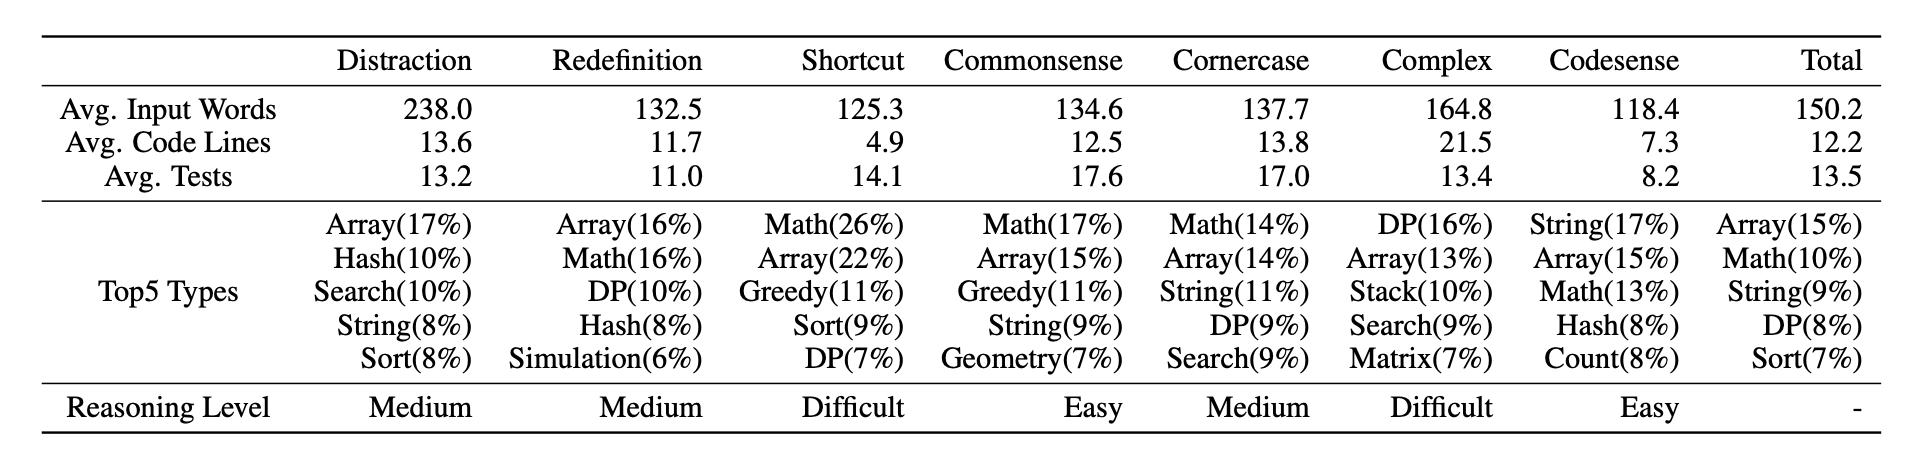
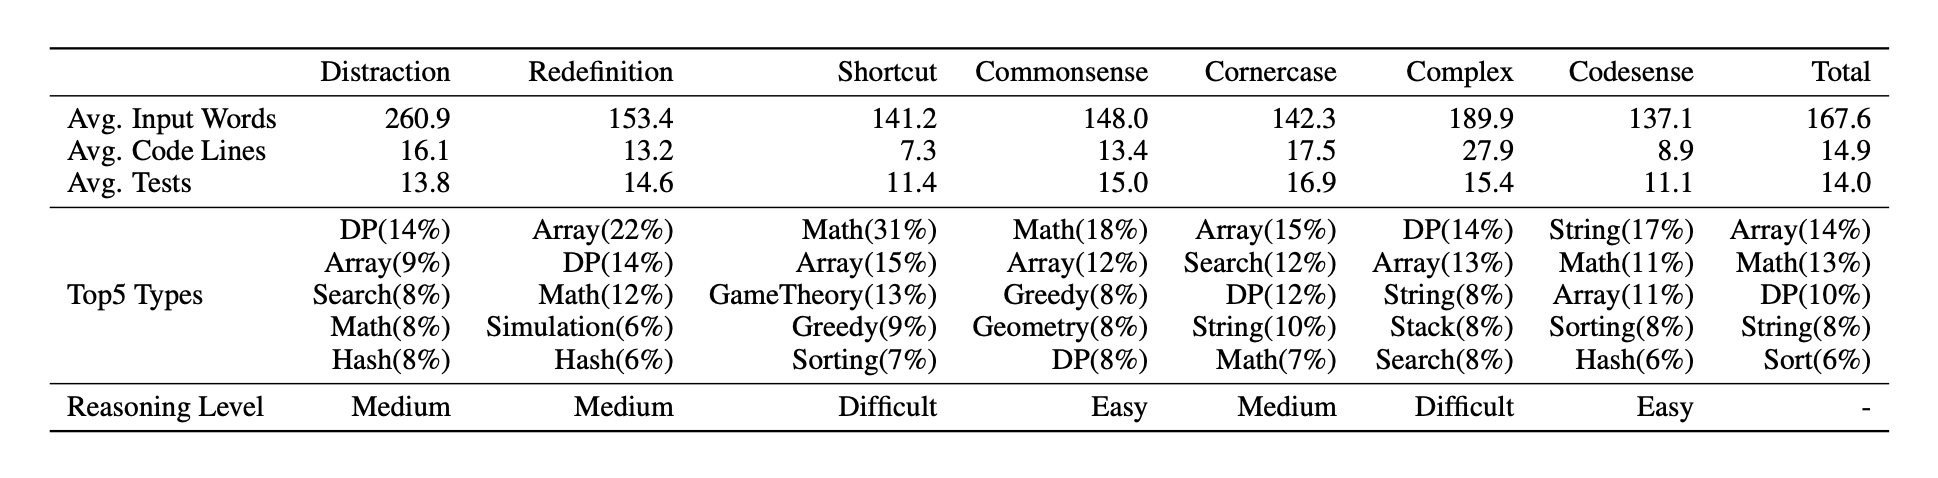
update statistics.png

Changed region(s): [[0.0, 0.0593, 0.9959, 0.9195], [0.0311, 0.5932, 0.1245, 0.6525]]

diff --git a/README.md b/README.md
@@ -4,7 +4,7 @@
 
 MHPP is a code genration benchmark that:
 * ✨ Assesses LLMs' comprehension of specifications and restrictions, multi-step reasoning, and effective application of coding knowledge.
-* ✨ Contains 140 manually curated hard Python problems across 7 different challenge types.
+* ✨ Contains 210 manually curated hard Python problems across 7 different challenge types.
 ![statistics](./fig/statistics.png)
 
 Why MHPP?
